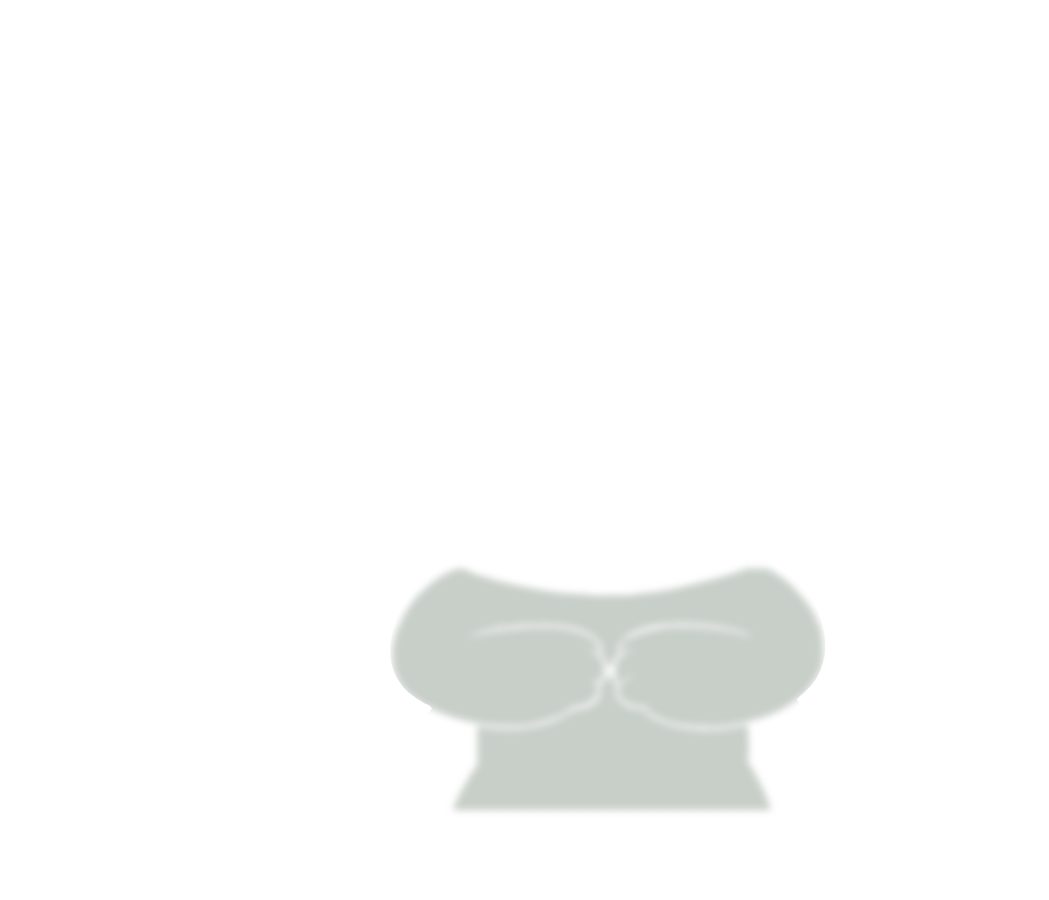
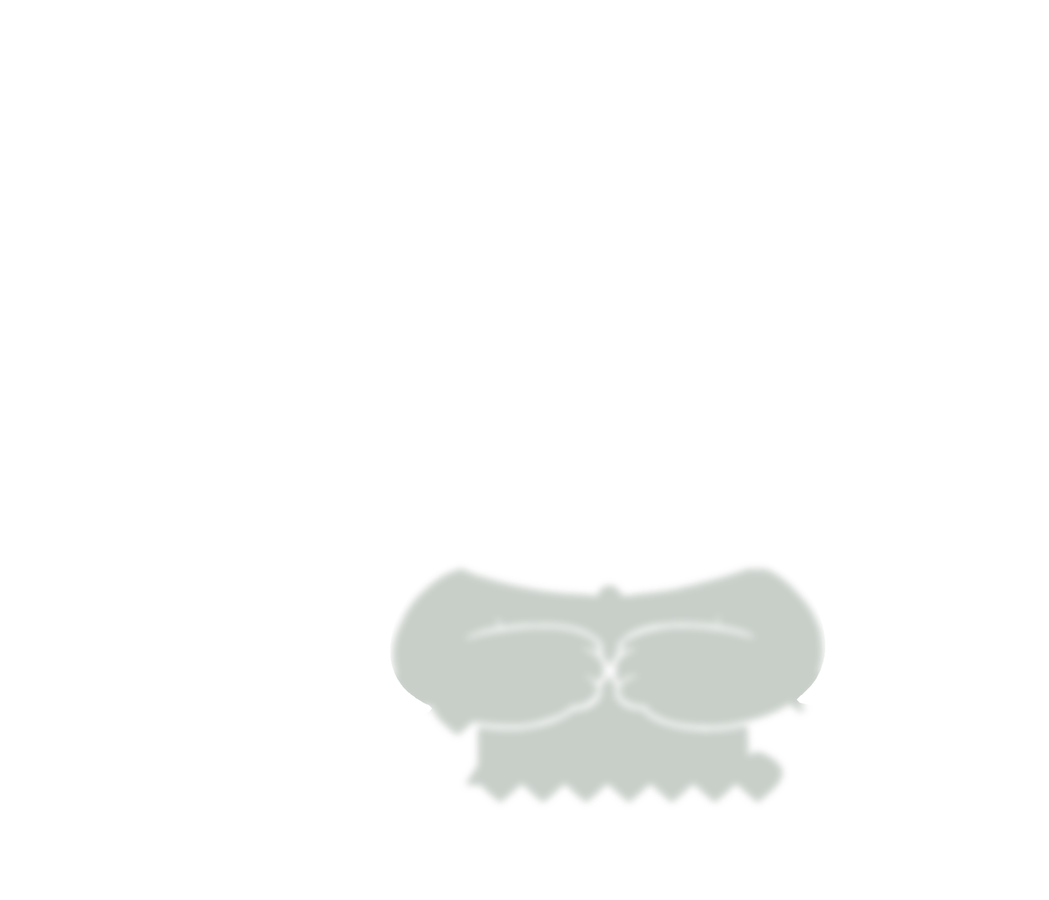
Thay Đồ: leaf top drawn to each body, wreath clears the eyes
The cape art stretched over Wuwu's and Dudu's torsos read as a lopsided
robe; the top is now drawn inside each outline (torso, sleeves that stop at
the hands, collar leaves with a gold bead, a hem of leaf tips).

Claude-Session: https://claude.ai/code/session_014qHujtA2z4ZRALee3926PQ

Changed region(s): [[0.4271, 0.84, 0.7626, 0.9022], [0.3966, 0.7778, 0.4576, 0.8089]]

diff --git a/scripts/build_dressup.py b/scripts/build_dressup.py
@@ -35,7 +35,7 @@ CATALOG = [
     ("02", "mu-tan-bong-bay", "Mũ Tán Bóng Bay", "head", dict(x=.495, w=.54, bottom=.26, ears="behind")),
     ("03", "mu-mang-bay-dot", "Mũ Măng Bảy Đốt", "head", dict(x=.495, w=.46, bottom=.255, ears="behind")),
     ("04", "hoa-hai-mau", "Hoa Hai Màu", "head", dict(x=.24, w=.20, cy=.21, ears="front")),
-    ("05", "vong-dom-dom", "Vòng Đom Đóm", "head", dict(x=.50, w=.62, bottom=.31, ears="front", wrap=.66)),
+    ("05", "vong-dom-dom", "Vòng Đom Đóm", "head", dict(x=.50, w=.62, bottom=.285, ears="front", wrap=.66)),
     ("26", "cai-la", "Cài Lá", "head", dict(x=.76, w=.20, cy=.21, ears="front")),
     ("07", "khan-nam-dong-song", "Khăn Năm Dòng Sông", "neck", dict(x=.51, w=.46, top=.50, band=True)),
     ("08", "mat-day-vong-trang", "Mặt Dây Vòng Trăng", "neck", dict(x=.50, w=.30, top=.45)),
@@ -78,22 +78,22 @@ MASCOTS = {
                  chin=[(.19, .42), (.33, .462), (.50, .478), (.67, .462), (.81, .42)],
                  skull=(.50, .30, .31, .22), grip=(.50, .62), grip_kind="mask", hand_scale=1.9, fly=(.10, .26),
                  grip_mask=[(.455, .62, .052, .072), (.545, .62, .052, .072)],
-                 fit={"vong-dom-dom": dict(dy=.07)},
+                 fit={"vong-dom-dom": dict(dy=-.035, scale=.9)},
                  gloves=[dict(seed=(.44, .63), rows=(.50, .72), cols=(.37, .505), cuff="left"),
                          dict(seed=(.56, .63), rows=(.50, .72), cols=(.495, .63), cuff="right")],
                  feet=[.31, .70], foot_rows=(.875, .96),
-                 torso=[(.50, .50), (.50, .76)], torso_bottom=.84, drop_white=False,
+                 torso=[(.50, .50), (.50, .76)], torso_bottom=.80, drop_white=False,
                  arms=[((.25, .60), None), ((.75, .60), None)], arm_rows=(.44, .72)),
     "dudu": dict(name="Dudu", pose="assets/char/gen/dudu/dudu-dressup-base.png", ink=(91, 28, 3),
                  head=(.548, .215, .58), neck=(.55, .52, .58), back=(.55, .64, .62),
                  chin=[(.29, .44), (.36, .50), (.43, .565), (.50, .53), (.58, .515), (.68, .49), (.80, .44)],
                  skull=(.548, .36, .272, .24), grip=(.20, .60), grip_kind="mask", hand_scale=1.7, fly=(.08, .30),
                  grip_mask=[(.197, .603, .074, .08)],
-                 fit={"vong-dom-dom": dict(dy=.055), "hoa-hai-mau": dict(dx=.04, dy=.03), "cai-la": dict(dx=-.02, dy=.02)},
+                 fit={"vong-dom-dom": dict(dy=-.005), "hoa-hai-mau": dict(dx=.04, dy=.03), "cai-la": dict(dx=-.02, dy=.02)},
                  gloves=[dict(seed=(.17, .60), rows=(.50, .70), cols=(.10, .272), cuff="right"),
                          dict(seed=(.82, .78), rows=(.715, .84), cols=(.74, .90), cuff="top")],
                  feet=[.405, .65], foot_rows=(.87, .94),
-                 torso=[(.55, .70)], torso_bottom=.86, drop_white=False,
+                 torso=[(.55, .70)], torso_bottom=.80, drop_white=False,
                  arms=[((.33, .64), (.27, .45)), ((.80, .62), (.72, .92))], arm_rows=(.48, .84),
                  own=[("dudu-own-hat", "non-la-dudu", "Nón Lá Của Dudu", "head"),
                       ("dudu-own-bamboo", "gay-tre", "Gậy Tre", "hand")]),
@@ -236,6 +236,76 @@ def texture_into(region, art, W, H, pad, canvas, grow=(0, 0, 0, 0)):
     layer.putalpha(ImageChops.multiply(layer.getchannel("A"), m))
     out = Image.new("RGBA", canvas)
     out.alpha_composite(layer, (pad, pad))
+    return out
+
+
+def leaf(base, tip, width, n=24):
+    """A pointed leaf polygon from base to tip (pixels), widest a third of the way along."""
+    (bx, by), (tx, ty) = base, tip
+    dx, dy = tx - bx, ty - by
+    ln = max(1e-6, (dx * dx + dy * dy) ** .5)
+    nx, ny = -dy / ln, dx / ln
+    side = []
+    for i in range(n + 1):
+        t = i / n
+        w = width / 2 * np.sin(np.pi * t ** .8)
+        side.append((t, w))
+    a = [(bx + dx * t + nx * w, by + dy * t + ny * w) for t, w in side]
+    b = [(bx + dx * t - nx * w, by + dy * t - ny * w) for t, w in side[::-1]]
+    return a + b
+
+
+def leaf_top(torso, arms, art, M, W, H, pad, canvas, body_a):
+    """The leaf cape as worn: a top drawn inside the companion's own outline (torso and sleeves),
+    two big collar leaves from a gold bead under the chin and a hem of leaf tips (green and cream)."""
+    a = np.asarray(art).reshape(-1, 4)
+    px = a[a[:, 3] > 200][:, :3].astype(int)
+    r, g, b = px.T
+    gr = px[g > r + 15]
+    lum = gr @ np.array([299, 587, 114]) // 1000
+    med = lambda m: tuple(int(v) for v in np.median(m, axis=0)) + (255,)
+    light, mid, dark = med(gr[lum > np.percentile(lum, 70)]), med(gr), med(gr[lum < np.percentile(lum, 30)])
+    _, cream, gold = palette(art)
+    cream, gold, ink = cream + (255,), gold + (255,), M["ink"] + (255,)
+    k = 3
+    big = lambda m: Image.fromarray(m.astype(np.uint8) * 255).resize((W * k, H * k), Image.LANCZOS)
+    region = torso | arms
+    img = Image.new("RGBA", (W * k, H * k))
+    img.paste(mid, mask=big(torso))
+    img.paste(dark, mask=big(arms & ~torso))           # sleeves a shade darker
+    d = ImageDraw.Draw(img)
+    lw = .0045 * H * k
+    ys, xs = np.nonzero(torso)
+    x0, x1, y1 = xs.min(), xs.max(), ys.max()
+    tw = x1 - x0
+    # hem: leaf tips along the torso's bottom edge, hanging a little over the body below
+    hem = Image.new("RGBA", img.size)
+    hd = ImageDraw.Draw(hem)
+    cols = np.arange(x0, x1 + 1)
+    bottom = np.array([ys[xs == c].max() if (xs == c).any() else y1 for c in cols])
+    n = max(4, round(tw / (.07 * H)))
+    for i in range(n):
+        cx = x0 + (i + .5) * tw / n
+        by = bottom[min(len(bottom) - 1, int(cx - x0))]
+        hd.polygon([(u * k, v * k) for u, v in leaf((cx, by - .055 * H), (cx, by + .03 * H), tw / n * 1.15)],
+                   fill=cream if i % 2 else light, outline=ink, width=round(lw))
+    # collar: two big leaves from the bead under the chin, and the bead
+    cxs, cys = zip(*M["chin"])
+    ncx = (M["neck"][0]) * W
+    ncy = np.interp(M["neck"][0], cxs, cys) * H + .01 * H
+    L = .30 * tw
+    for sgn in (-1, 1):
+        d.polygon([(u * k, v * k) for u, v in leaf((ncx, ncy), (ncx + sgn * L * .95, ncy + L * .55), L * .55)],
+                  fill=light, outline=ink, width=round(lw))
+        d.line([(ncx * k, ncy * k), ((ncx + sgn * L * .8) * k, (ncy + L * .47) * k)], fill=dark, width=round(lw * .8))
+    m = big(region).filter(ImageFilter.MaxFilter(3))
+    img.putalpha(ImageChops.multiply(img.getchannel("A"), m))
+    img.alpha_composite(Image.composite(hem, Image.new("RGBA", img.size), body_a))
+    br = .02 * H * k
+    d = ImageDraw.Draw(img)
+    d.ellipse([ncx * k - br, ncy * k - br, ncx * k + br, ncy * k + br], fill=gold, outline=ink, width=round(lw))
+    out = Image.new("RGBA", canvas)
+    out.alpha_composite(img.resize((W, H), Image.LANCZOS), (pad, pad))
     return out
 
 
@@ -445,12 +515,11 @@ def build(mid, RW, RH):
                 body = fill_region(pose, M["torso"], chin, M["torso_bottom"], drop_white=M["drop_white"])
                 arms = fill_region(pose, [a[0] for a in M["arms"]], M["arm_rows"][0], M["arm_rows"][1], [a[1] for a in M["arms"]])
                 body &= np.asarray(torso_img.crop((pad, pad, pad + W, pad + H))) > 0
-                region = body | arms
-                under = Image.new("RGBA", (W, H), palette(art)[0] + (255,))   # no body shows through the hem gaps
-                under.putalpha(Image.fromarray(region.astype(np.uint8) * 255).filter(ImageFilter.MaxFilter(3)))
-                layer = Image.new("RGBA", canvas)
-                layer.alpha_composite(under, (pad, pad))
-                layer.alpha_composite(texture_into(region, art, W, H, pad, canvas, (.02, .05, .02, .03)))
+                for g in M["gloves"]:                 # sleeves stop where the hands start
+                    arms &= ~fill_region(pose, [g["seed"]], g["rows"][0], g["rows"][1], [g["cols"]])
+                fur_a = Image.fromarray((np.asarray(torso_img.crop((pad, pad, pad + W, pad + H))) > 0).astype(np.uint8) * 255)
+                layer = leaf_top(body, arms, art, M, W, H, pad, canvas,
+                                 fur_a.resize((W * 3, H * 3)))
             elif slot == "hand":
                 h = p["h"] * RH * M["hand_scale"]
                 art = art.resize((max(1, round(art.width * h / art.height)), max(1, round(h))), Image.LANCZOS)
